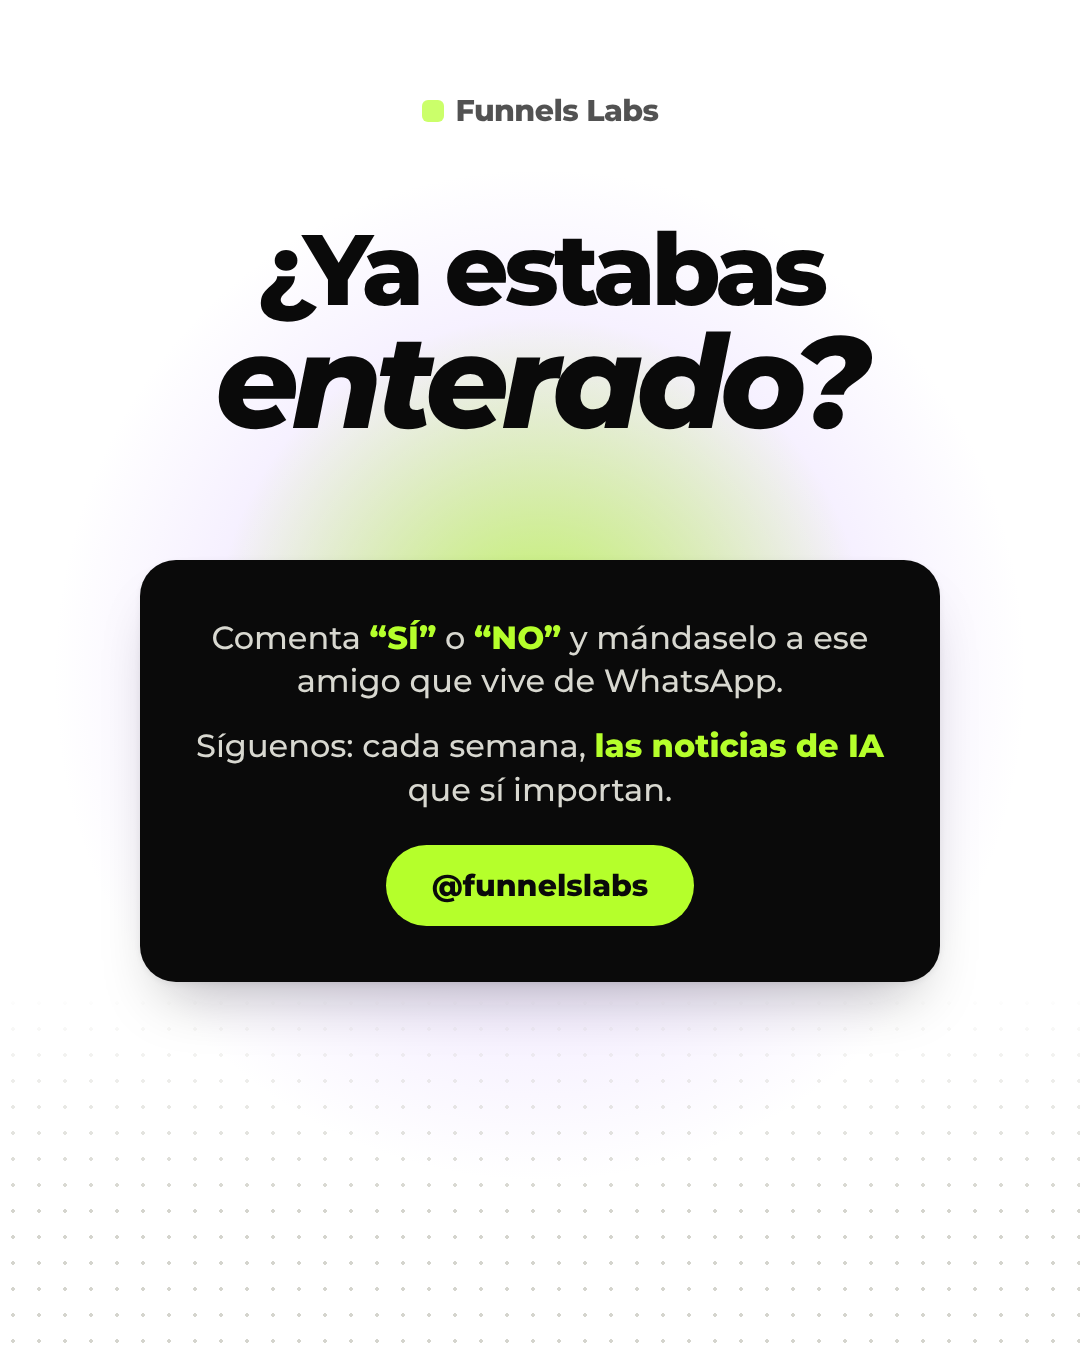
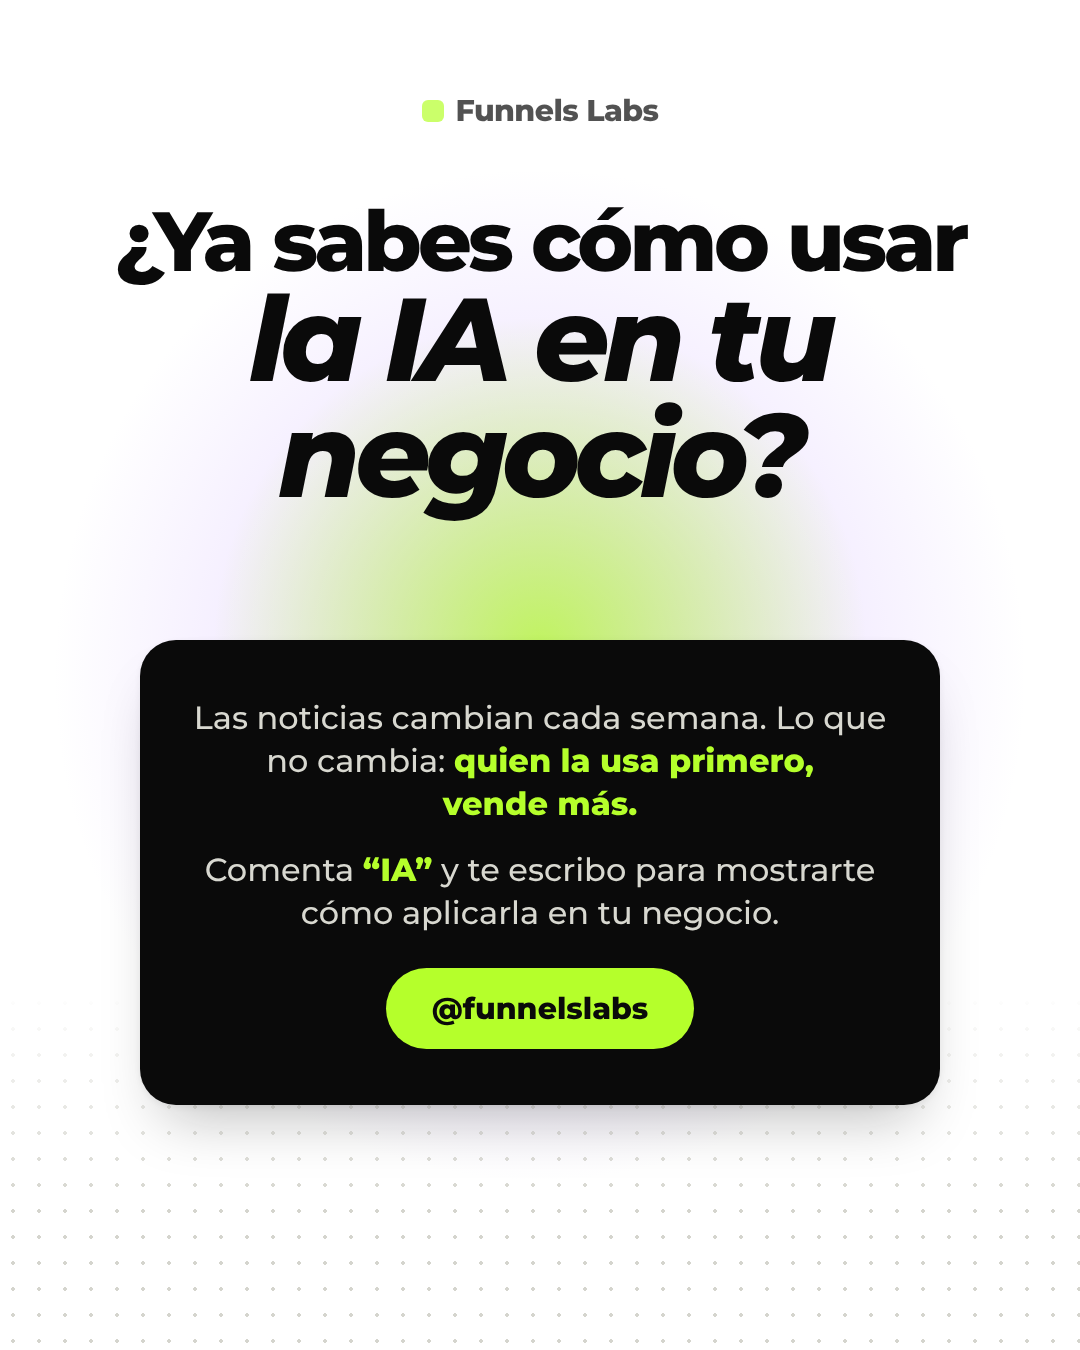
Noticias IA: CTA final como gancho (¿Ya sabes cómo usar la IA en tu negocio?)
Claude-Session: https://claude.ai/code/session_018d4LXHkXweDJXxfN5x99dL

Changed region(s): [[0.0917, 0.1556, 0.9167, 0.6844], [0.1222, 0.7156, 0.8861, 0.84]]

diff --git a/carruseles/noticias-ia-semana-oct-8/carrusel.html b/carruseles/noticias-ia-semana-oct-8/carrusel.html
@@ -199,10 +199,10 @@
 </section>
 <section class="slide cover">
   <div class="logo"><i></i>Funnels Labs</div>
-  <h1 style="top:220px">¿Ya estabas <em style="font-size:130px">enterado?</em></h1>
-  <div class="cta-box">
-    <p>Comenta <b>“SÍ”</b> o <b>“NO”</b> y mándaselo a ese amigo que vive de WhatsApp.</p>
-    <p style="margin-top:22px">Síguenos: cada semana, <b>las noticias de IA</b> que sí importan.</p>
+  <h1 style="top:200px;font-size:84px">¿Ya sabes cómo usar <em style="font-size:118px">la IA en tu negocio?</em></h1>
+  <div class="cta-box" style="top:640px">
+    <p>Las noticias cambian cada semana. Lo que no cambia: <b>quien la usa primero, <span style="white-space:nowrap">vende más.</span></b></p>
+    <p style="margin-top:22px">Comenta <b>“IA”</b> y te escribo para mostrarte cómo aplicarla en tu negocio.</p>
     <span class="btn">@funnelslabs</span>
   </div>
 </section>

diff --git a/carruseles/noticias-ia-semana-oct-8/caption.md b/carruseles/noticias-ia-semana-oct-8/caption.md
@@ -1,9 +1,9 @@
-Si tu negocio vive de WhatsApp, esta semana te interesa 👀
+La IA se mueve cada semana. La pregunta es si tu negocio se está moviendo con ella 👀
 
-Desde octubre, responder por la API de WhatsApp tiene costo después de 1,000 mensajes al mes. Lo bueno: si el cliente te escribe desde un anuncio, sigues teniendo 72 horas gratis.
+Esta semana: GPT-6 llegó a ChatGPT, WhatsApp cambió sus cobros (tranquilo, si te escriben desde un anuncio sigues con 72 h gratis) y Google se movió fuerte.
 
 Te lo resumí en 4 slides, sin tecnicismos.
 
-¿Ya estabas enterado? Dime SÍ o NO en comentarios 👇
+¿Ya sabes cómo usar la IA en tu negocio? Comenta “IA” y te escribo 👇
 
 #emprendedoreslatam #inteligenciaartificial #funnelslabs
